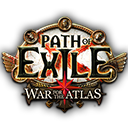
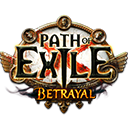
Update unique and prophecy data to finalize Betrayal support.

diff --git a/CHANGELOG.md b/CHANGELOG.md
@@ -4,6 +4,11 @@ The history of changes to the extension.
 
 ---
 
+### Version 1.15.2 (December 21st, 2018)
+- Added all of the new uniques added in Betrayal.
+- Added the new `The Mentor` prophecy.
+- Renamed the `Lava Chambers Map` base type to its current name of `Lava Chamber Map`.
+
 ### Version 1.15.1 (December 13th, 2018)
 - Added several new autocompletion helper values, such as `Scarab`.
 - Added the missing `Harbinger Map` item base.
